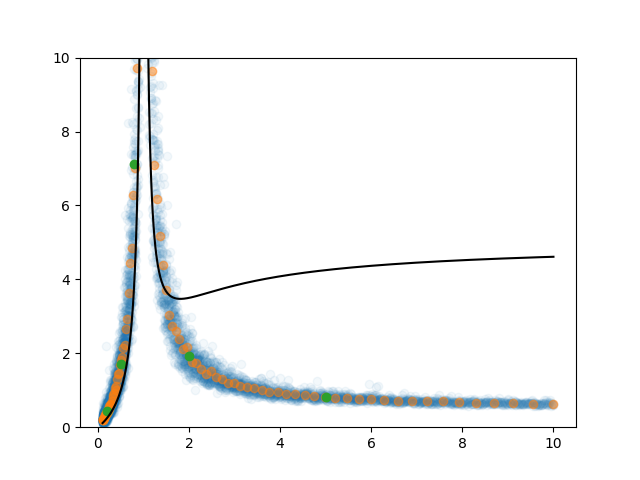
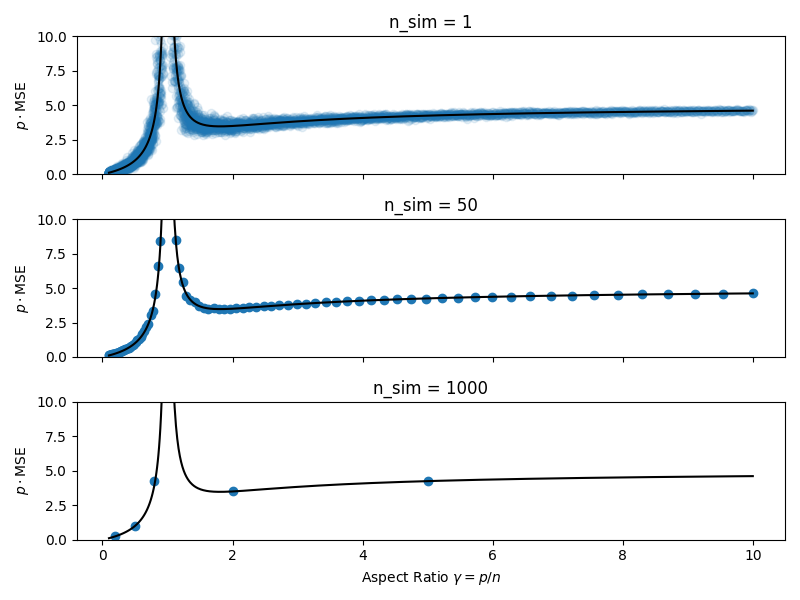
finally get the good plot after all the fixes.

diff --git a/studio8/run_simulations.py b/studio8/run_simulations.py
@@ -24,7 +24,6 @@ import numpy as np
 import pandas as pd
 
 from studio8.src.estimators import run_simulation, _get_estimator_name, SimulationResult
-from studio8.src.simulation import generate_covariance_structure
 
 logging.basicConfig(level=logging.INFO)
 logger = logging.getLogger(__name__)
@@ -32,28 +31,22 @@ logger = logging.getLogger(__name__)
 
 def run_simulation_in_parallel(scenario):
     # Set dimension
-    regressor = scenario[0]
-    p = scenario[1]
-    degrees_of_freedom = scenario[2]
-    aspect_ratio = scenario[3]
-    rho = scenario[4]
-    SNR = scenario[5]
-    n_sim = scenario[6]
-    save = scenario[7]
-    # Generate covariance structure based on rho and p
-    covariance = generate_covariance_structure(rho, p)
+    regressor, p, aspect_ratio, n_sim, save = scenario
+    covariance = np.eye(p)
     reg_name = _get_estimator_name(regressor)
+    append_msg = ", ".join([f"{k}: {v}" for k, v in zip(["p", "ar", "n_sim"], [p, aspect_ratio, n_sim])])
+    
 
     # Determine filename for simulation output
     if save is True:
         filename = SimulationResult._construct_filepath(
-            reg_name, p, SNR, degrees_of_freedom, aspect_ratio, scenario[3]
+            reg_name, p=p, aspect_ratio=aspect_ratio, n_sim=n_sim
         )
         output_dir = Path("studio8/sim_outputs/")
         # Skip simulation if output already exists
         if (output_dir / filename).exists():
             logging.info(
-                f"Skipping scenario - df: {degrees_of_freedom}, ar: {aspect_ratio}"
+                f"Skipping scenario - {append_msg}"
             )
             return
 
@@ -64,13 +57,11 @@ def run_simulation_in_parallel(scenario):
             p=p,
             aspect_ratio=aspect_ratio,
             covariance=covariance,
-            degrees_of_freedom=degrees_of_freedom,
-            SNR=SNR,
             rsq=5.0,  # rsq for sample beta generation
             noise_distribution="normal"
         )
         logging.info(
-            f"Completed scenario - df: {degrees_of_freedom}, ar: {aspect_ratio}, regressor: {reg_name}"
+            f"Completed scenario - {append_msg}"
         )
         if save:
             sim_out.save()
@@ -83,7 +74,7 @@ def run_simulation_in_parallel(scenario):
             }
             # return sim_out._df
     except Exception as e:
-        err_msg = f"Error in scenario - df: {degrees_of_freedom}, ar: {aspect_ratio}, regressor: {reg_name}\nError: {e}"
+        err_msg = f"Error in scenario - {append_msg} -- {e}"
         logging.error(err_msg)
     # Ensure all output is flushed to avoid deadlocks
     sys.stdout.flush()
@@ -99,15 +90,10 @@ if __name__ == "__main__":
 
     # Define scenario parameters
     scenario_configs = [
-        (50, np.geomspace(0.1, 10.0, num=100)),
-        # (1000, np.array([0.2, 0.5, 0.8, 2.0, 5.0])),
-        (1, np.geomspace(0.1, 10.0, num=5000)),
+        # (1, np.geomspace(0.1, 10.0, num=5000)),
+        # (50, np.geomspace(0.1, 10.0, num=100)),
+        (1000, np.array([0.2, 0.5, 0.8, 2.0, 5.0])),
     ]
-
-    # we may not need these parameters
-    degrees_of_freedom = 5
-    SNR = 5
-    rho = 0
 
     # Generate all combinations of scenarios
     for n_sim, aspect_ratios in scenario_configs:
@@ -119,21 +105,18 @@ if __name__ == "__main__":
                 (
                     partial(Ridge, alpha=1e-10),
                     p,
-                    degrees_of_freedom,
                     ar,
-                    rho,
-                    SNR,
                     n_sim,
                     False,
                 )
             )
         with Pool(8) as pool:
-            results = pool.map(run_simulation_in_parallel, scenarios)
+            results = list(pool.imap_unordered(run_simulation_in_parallel, scenarios))
         # results = list(map(run_simulation_in_parallel, scenarios))
         output_dir = Path("studio8/sim_outputs/")
         output_dir.mkdir(parents=True, exist_ok=True)
         (output := pd.DataFrame(results)).to_csv(
             output_dir / f"simulation_results_fixed_nsim_{n_sim}.csv", index=False
         )
-        with open(output_dir/ f"simulation_results_fixec_nsim_{n_sim}.pkl", "wb") as f:
+        with open(output_dir/ f"simulation_results_fixed_nsim_{n_sim}.pkl", "wb") as f:
             pkl.dump(output, f)

diff --git a/studio8/analyze_results.py b/studio8/analyze_results.py
@@ -4,9 +4,9 @@ from studio8.src.plot_function import expected_value_beta_rmse
 from matplotlib import pyplot as plt
 
 mse_values = pd.concat([
-    pd.read_csv("./simulation_results_nsim_1.csv"),
-    pd.read_csv("./simulation_results_nsim_50.csv"),
-    pd.read_csv("./simulation_results_nsim_1000.csv"),
+    pd.read_csv("./studio8/sim_outputs/simulation_results_fixed_nsim_1.csv"),
+    pd.read_csv("./studio8/sim_outputs/simulation_results_fixed_nsim_50.csv"),
+    pd.read_csv("./studio8/sim_outputs/simulation_results_fixed_nsim_1000.csv"),
 ])
 
 mse_values["p"] = mse_values["gamma"] * 200
@@ -19,12 +19,21 @@ n_sim_50 = mse_values[(mse_values["n_sim"] == 50)][["mse", "gamma", "p"]]
 n_sim_1000 = mse_values[(mse_values["n_sim"] == 1000)][["mse", "gamma", "p"]]
 
 fig, ax = plt.subplots(figsize=(8, 6), ncols=1, nrows=3, sharex=True, sharey=True)
-for a, ds in zip(ax, [n_sim_1, n_sim_50, n_sim_1000]):
-    a.plot(ds["gamma"], ds["p"]*ds["mse"], 'o', alpha=0.05)
+for a, ds, alpha, nsim in zip(ax, [n_sim_1, n_sim_50, n_sim_1000], [0.1, 1, 1], [1, 50, 1000]):
+    a.plot(ds["gamma"], ds["p"]*ds["mse"], 'o', alpha=alpha)
     a.plot(gamma1, expected_value_beta_rmse(gamma1), color="black")
     a.plot(gamma2, expected_value_beta_rmse(gamma2), color="black")
     # set y limit on each subplot
     a.set_ylim(0, 10)
+    a.set_ylabel(r"$p \cdot \mathrm{MSE}$")
+    if nsim == 1:
+        a.set_title("n_sim = 1")
+    elif nsim == 50:
+        a.set_title("n_sim = 50")
+    else:
+        a.set_title("n_sim = 1000")
+        a.set_xlabel(r"Aspect Ratio $\gamma = p/n$")
 
+fig.tight_layout()
 plt.savefig("studio8/figures/mse_vs_aspect_ratio.png")
 plt.show()

diff --git a/studio8/src/estimators.py b/studio8/src/estimators.py
@@ -118,19 +118,19 @@ class SimulationResult(object):
 
     @property
     def filename(self):
+        # TODO: this is bugged, but we're not saving anymore so it's ok for now
         return self._construct_filepath(
             self.name,
-            self.p[0],
-            self.SNR[0],
-            self.degrees_of_freedom[0],
-            self.aspect_ratio[0],
-            self.rho[0],
+            p=self.p[0],
+            ar=self.aspect_ratio[0],
+            rho=self.rho[0],
         )
 
     @classmethod
-    def _construct_filepath(cls, name, p, snr, df, ar, rho):
+    def _construct_filepath(cls, name, **kwargs):
+        fp_items = [f"{key}={value}" for key, value in kwargs.items()]
         return Path(
-            f"{name}/p={p:0.0f}_snr={snr:0.0f}_df={df:0.0f}_ar={ar:0.2f}_rho={rho:0.2f}.pkl"
+            f"{name}/{'_'.join(fp_items)}.pkl"
         )
 
     @classmethod
